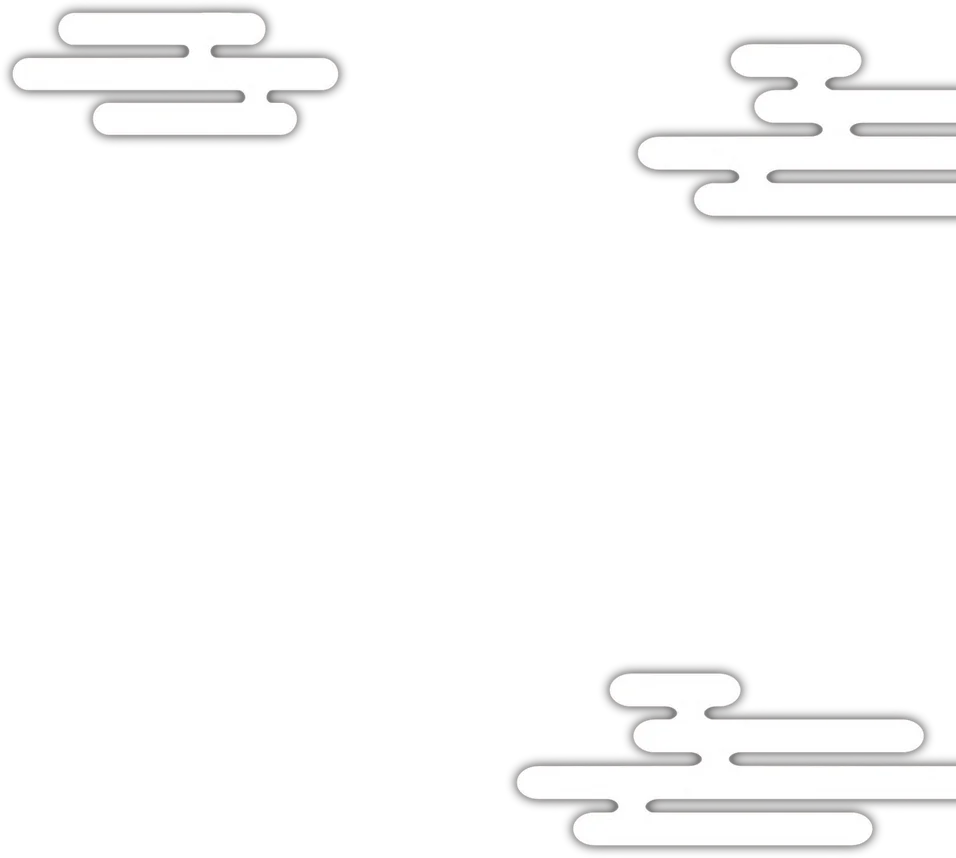
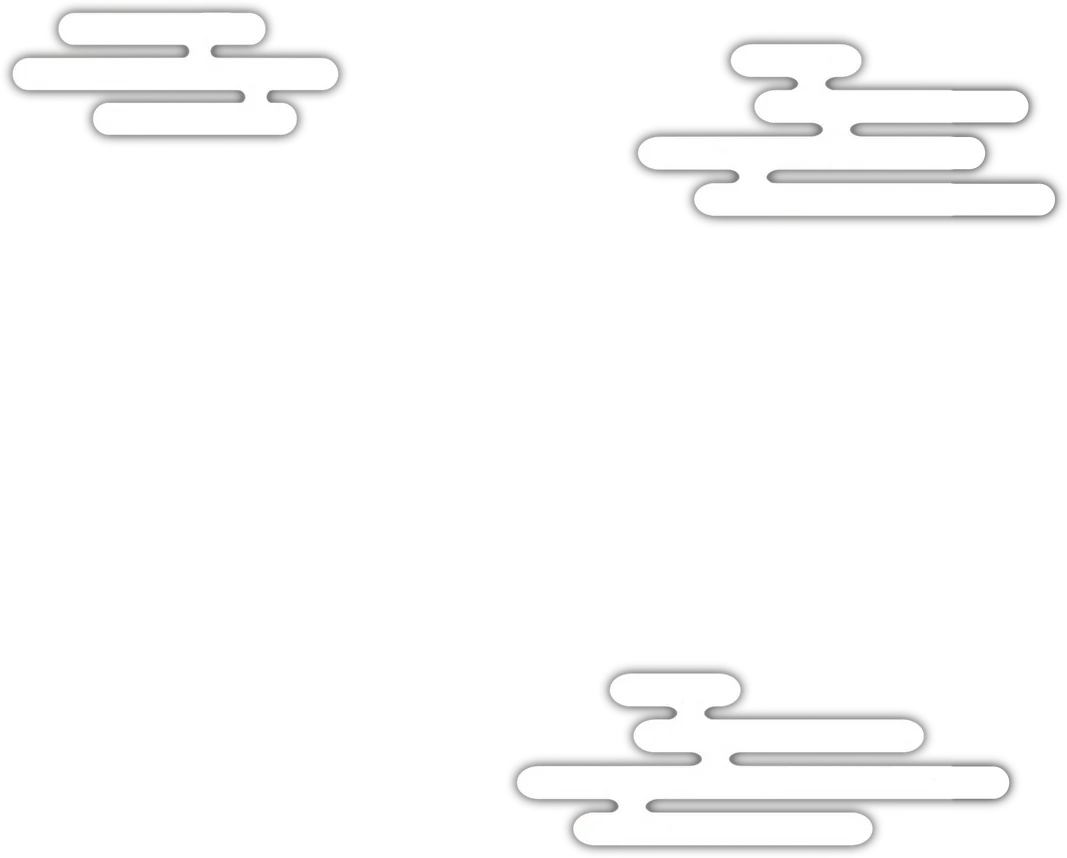
Hero clouds: round off the bars that were cut flat
In the poster, the two right-hand clouds ran off the edge of their layer
behind the shoji panel. Now that the clouds drift across the window those
flat ends showed. Extend the four cut bars with rounded ends at staggered
lengths, with a shadow fitted to the original's, and space the two looping
copies a little further apart so the longer clouds don't crowd each other.

Claude-Session: https://claude.ai/code/session_01CzkvjFZNL28wXnKvfCm8ew

diff --git a/index.html b/index.html
@@ -20,7 +20,7 @@
   <link rel="stylesheet" href="https://fonts.googleapis.com/css2?family=Poppins:wght@500;600;700;800&display=swap">
 
   <!-- Flyer theme (colours, hero, guest tiles); see the notes at the top of the file -->
-  <link rel="stylesheet" href="./punch.css?v=14">
+  <link rel="stylesheet" href="./punch.css?v=15">
   <link rel="preload" as="image" href="images/punch/kanna.webp">
   <link rel="preload" as="image" href="images/punch/hero-waves.webp">
 
@@ -140,7 +140,7 @@
         <div class="jh-layer jh-window" style="left:3.103%; top:13.353%; width:93.621%">
           <img class="jh-win-waves" src="images/punch/hero-waves.webp" alt="" width="1090" height="1087" fetchpriority="high">
           <div class="jh-win-glow"></div>
-          <div class="jh-win-sky"><img class="jh-win-clouds" src="images/punch/hero-clouds.webp" alt="" width="956" height="858"><img class="jh-win-clouds jh-clouds-b" src="images/punch/hero-clouds.webp" alt="" width="956" height="858"></div>
+          <div class="jh-win-sky"><img class="jh-win-clouds" src="images/punch/hero-clouds.webp?v=2" alt="" width="1067" height="858"><img class="jh-win-clouds jh-clouds-b" src="images/punch/hero-clouds.webp?v=2" alt="" width="1067" height="858"></div>
           <img class="jh-win-frame" src="images/punch/hero-frame.webp" alt="" width="1090" height="1087">
         </div>
         <img class="jh-layer jh-hero-kanna" src="images/punch/kanna.webp" alt="" width="973" height="1681" style="left:13.414%; top:0.786%; width:66.155%" fetchpriority="high">

diff --git a/punch.css b/punch.css
@@ -135,14 +135,14 @@ body.jh-body { background: var(--ink); color: var(--on-dark); }
 }
 /* Clouds only show in the opening between the shoji panels, as on the poster */
 .jh-win-sky { clip-path: inset(0 22.1% 0 22.1%); }
-.jh-win-clouds { position: absolute; left: 9.208%; top: 11.993%; width: 87.661%; height: auto; animation: jh-drift 30s linear infinite; }
-/* A second copy one period (114% of the layer's width) to the left: as the first
-   drifts out on the right, the second arrives where it started, so the loop is seamless */
-.jh-clouds-b { left: calc(9.208% - 87.661% * 1.14); }
+.jh-win-clouds { position: absolute; left: 9.208%; top: 11.993%; width: 97.823%; height: auto; animation: jh-drift 34s linear infinite; }
+/* A second copy one period (112% of the window) to the left: as the first drifts out
+   on the right, the second arrives where it started, so the loop is seamless */
+.jh-clouds-b { left: -102.792%; }
 .jh-hero-kanna { animation: jh-float 3.2s ease-in-out infinite alternate; }
 
 @keyframes jh-glow  { from { opacity: .25; transform: scale(.85); } to { opacity: 1; transform: scale(1.12); } }
-@keyframes jh-drift { from { transform: translateX(0); } to { transform: translateX(114%); } }
+@keyframes jh-drift { from { transform: translateX(0); } to { transform: translateX(114.492%); } }
 @keyframes jh-float { from { transform: translateY(0); } to { transform: translateY(-2.4%); } }
 @media (prefers-reduced-motion: reduce) {
   .jh-win-glow, .jh-win-clouds, .jh-hero-kanna { animation: none; }
